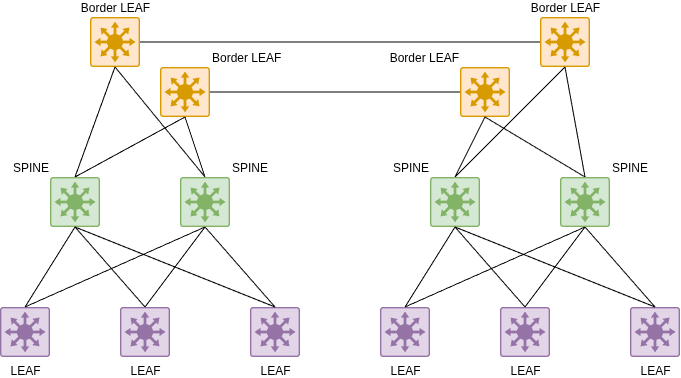
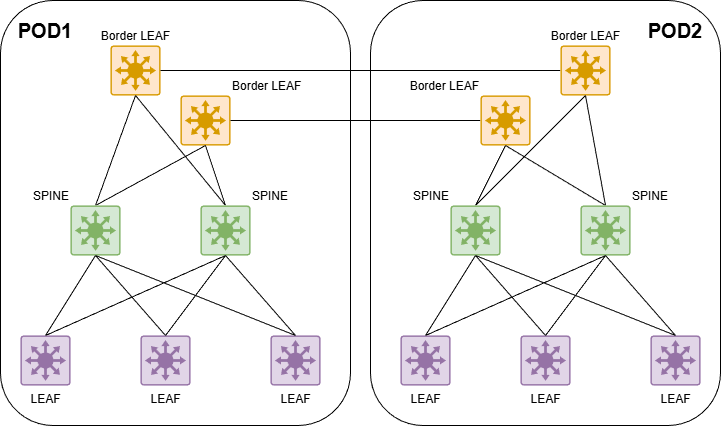
modified:   project/README.md 	modified:   project/img/scheme.drawio 	modified:   project/img/scheme.png

diff --git a/project/README.md b/project/README.md
@@ -48,16 +48,88 @@
  - VXLAN туннели строятся от Leaf к Leaf, 
  - источник – Loopback0, 
  - Anycast gateway на SVI.
-  
-![Топология сети](img/topology2.png)
+
+#### Общая схема сети
+![Общая схема сети](img/scheme.png)
 
 ## Реализация (что получилось)
 
-### Underlay:
+#### Топология сети
+![Топология сети](img/topology2.png)
 
- - На всех L3-линках (кроме серверных) настроено ipv6 enable, mtu 9000.
- - BGP-соседства через IPv6 link-local, peer-group, next-hop-self, next-hop-unchanged (для EVPN).
- - Loopback0 с /32 анонсируются в BGP для обеспечения IP-связности внутри пода.
+Underlay и Overlay построены на основе протокола iBGP. 
+
+### Underlay сеть
+
+Underlay представляет собой физическую (транспортную) инфраструктуру сети ЦОД, основная задача которой — обеспечить IP-связность между всеми сетевыми устройствами фабрики (Leaf, Spine, Border Leaf) для последующего построения поверхностных (overlay) туннелей VXLAN.
+
+#### Топология Underlay
+Сеть построена по архитектуре Clos (leaf-spine):
+
+ - **Два пода (POD1 и POD2)** — каждая фабрика функционирует как независимая автономная система (AS 65501 для POD1, AS 65502 для POD2).
+ - **Коммутаторы Spine** (по 2 в каждом поде) — образуют ядро фабрики, соединяя все Leaf-коммутаторы в полносвязную топологию (full mesh).
+ - **Коммутаторы Leaf** (по 4 в каждом поде) — к ним подключаются серверы и пограничные маршрутизаторы.
+ - **Border Leaf** (по 2 в каждом поде) — специальные Leaf-коммутаторы, отвечающие за взаимодействие между подами.
+
+#### Ключевые особенности Underlay
+
+#### Безадресная IPv6 маршрутизация (IPv6 Unnumbered):
+
+ - На всех L3-линках между коммутаторами (Leaf–Spine, Spine–Border Leaf, Border Leaf–Border Leaf) включён только IPv6 без назначения глобальных IPv4-адресов.
+ - Команда `ipv6 enable` генерирует link-local адреса (fe80::/64) на каждом интерфейсе.
+ - Глобальная команда `ip routing ipv6 interfaces` разрешает маршрутизацию IPv4-трафика через интерфейсы, имеющие только IPv6-адреса.
+
+#### Протокол маршрутизации BGP:
+
+ - Используется iBGP внутри каждого пода (remote-as совпадает с собственным номером AS).
+ - BGP-сессии устанавливаются через IPv6 link-local адреса с помощью конструкции `neighbor interface`, что полностью исключает необходимость назначения IP-адресов на P2P-линки.
+ - Применяются `peer-group` (pg_SPINE, pg_LIAF) для унификации настроек и упрощения конфигурации.
+ - В address-family IPv4 активированы соседи с опциями:
+   - `next-hop address-family ipv6 originate` — следующий хоп передаётся как IPv6-адрес;
+   - `next-hop-self` — Leaf анонсирует себя как следующий хоп для достижения клиентских сетей.
+
+#### Loopback-интерфейсы:
+
+Каждое устройство имеет Loopback0 с адресом /32 (например, 10.1.0.1 для Leaf-1-1, 10.1.1.1 для Spine-1-1).
+
+Loopback-адреса анонсируются в BGP через `redistribute connected` с использованием `route-map rm_REDISTRIBUTE`, что обеспечивает их доступность по всей фабрике.
+
+Эти адреса служат источником VXLAN-туннелей и идентификаторами BGP-роутеров.
+
+Адреса loopback0 назначены по схеме `10.x.y.z/32`, где
+
+- x - номер POD,
+- y - `1` для Spine, `0` - для Leaf
+- z - номер spine или leaf по порядку
+
+##### Таблица адресов Loopback интерфейсов POD1
+
+ | Device         | Interface | IP Address      |
+ | -------------- | --------- | --------------- |
+ | Spine-1-1      | Lo0       | `10.1.1.1/32`   |
+ | Spine-1-2      | Lo0       | `10.1.1.2/32`   |
+ | Leaf-1-1       | Lo0       | `10.1.0.1/32`   |
+ | Leaf-1-2       | Lo0       | `10.1.0.2/32`   |
+ | Leaf-1-3       | Lo0       | `10.1.0.3/32`   |
+ | Leaf-1-4       | Lo0       | `10.1.0.4/32`   |
+ | BorderLeaf-1-1 | Lo0       | `10.1.0.201/32` |
+ | BorderLeaf-1-2 | Lo0       | `10.1.0.202/32` |
+
+##### Таблица адресов Loopback интерфейсов POD2
+
+ | Device         | Interface | IP Address      |
+ | -------------- | --------- | --------------- |
+ | Spine-2-1      | Lo0       | `10.2.1.1/32`   |
+ | Spine-2-2      | Lo0       | `10.2.1.2/32`   |
+ | Leaf-2-1       | Lo0       | `10.2.0.1/32`   |
+ | Leaf-2-2       | Lo0       | `10.2.0.2/32`   |
+ | Leaf-2-3       | Lo0       | `10.2.0.3/32`   |
+ | Leaf-2-4       | Lo0       | `10.2.0.4/32`   |
+ | BorderLeaf-2-1 | Lo0       | `10.2.0.201/32` |
+ | BorderLeaf-2-2 | Lo0       | `10.2.0.202/32` |
+
+ 
+
 
 ### Overlay:
 
